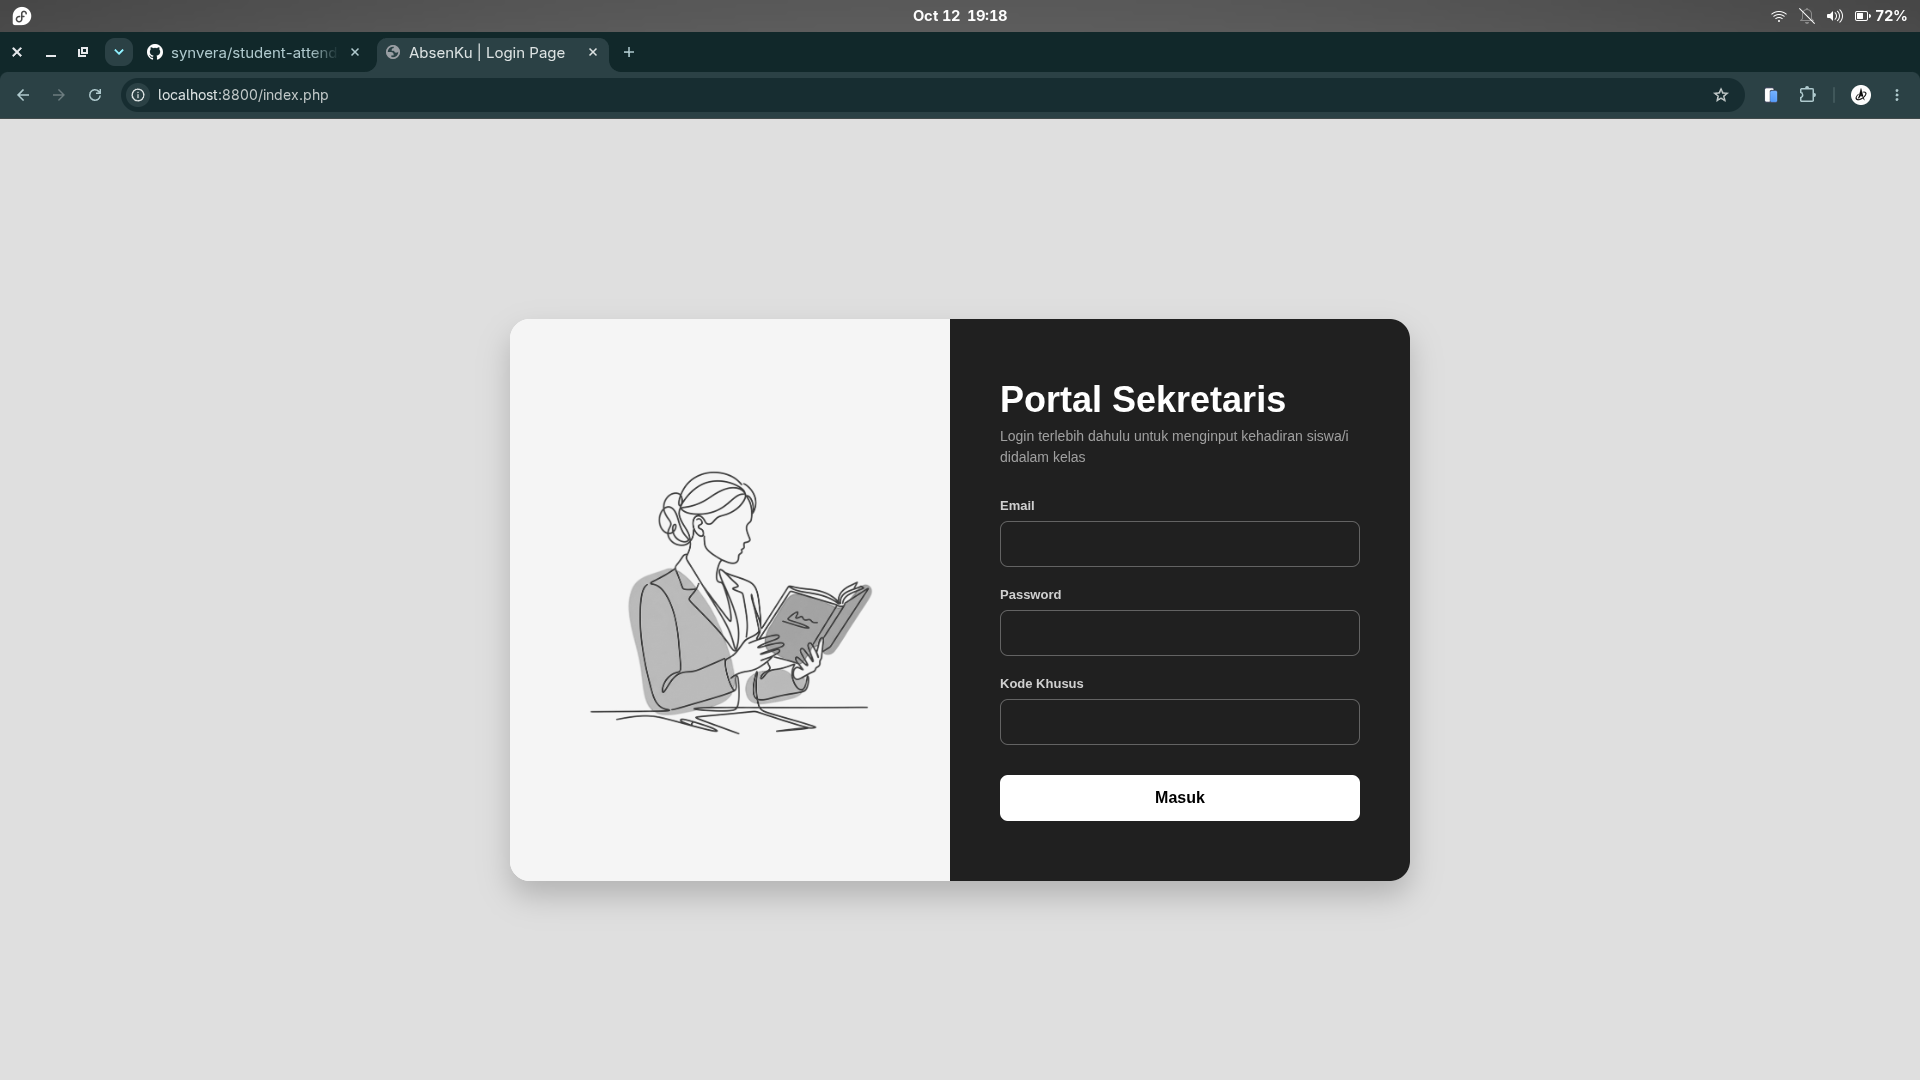
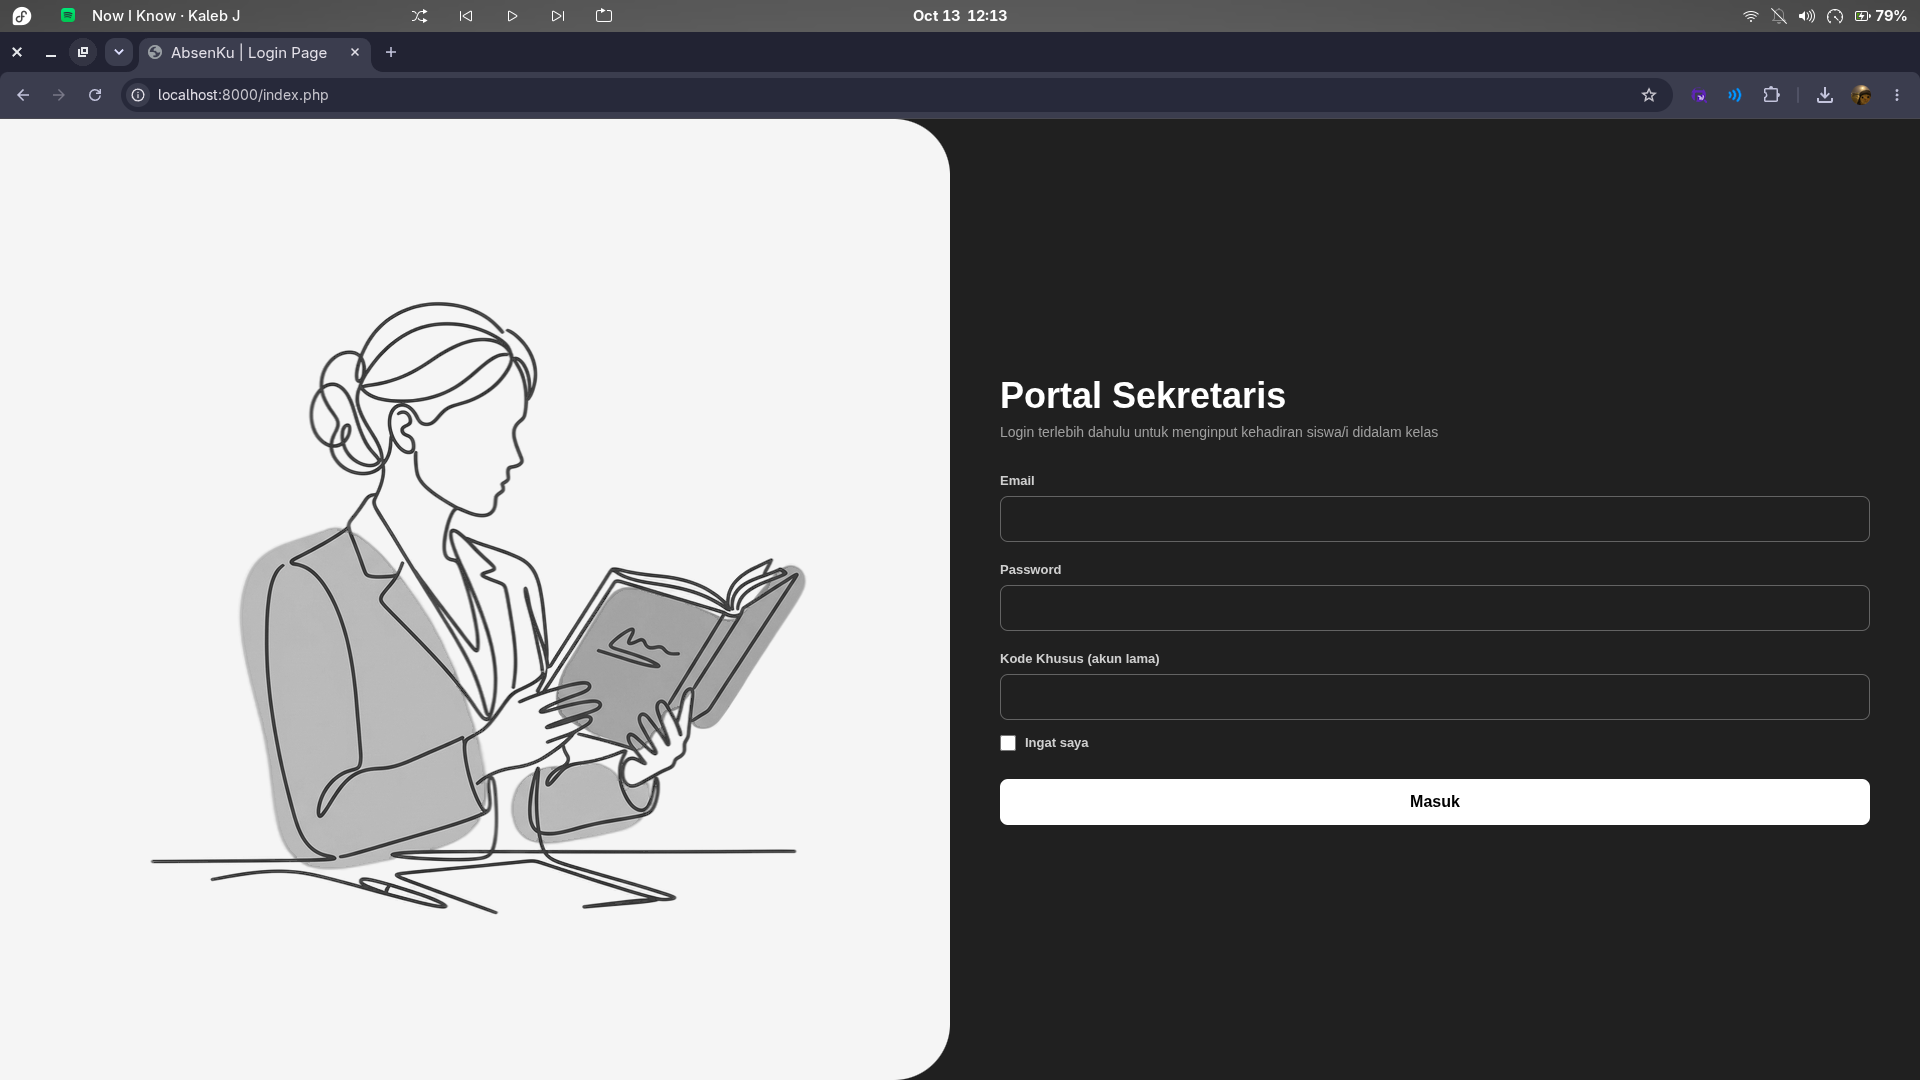
UPDATE

diff --git a/assets/css/index.css b/assets/css/index.css
@@ -10,20 +10,23 @@
 body {
     display: flex;
     justify-content: center;
-    align-items: center;
+    align-items: stretch;
     min-height: 100vh;
-    background-color: #e0e0e0; /* Abu-abu terang */
+    min-height: 100svh;
+    background-color: #ffffff;
 }
 
 /* Container utama untuk membagi 2 kolom */
 .login-page {
     display: flex;
-    width: 900px;
-    max-width: 90%;
-    background-color: #ffffff;
-    border-radius: 20px;
+    width: 100%;
+    max-width: none;
+    min-height: 100vh;
+    min-height: 100svh;
+    background-color: #1a1a1a;
+    border-radius: 0;
     overflow: hidden;
-    box-shadow: 0 15px 30px rgba(0, 0, 0, 0.2);
+    box-shadow: none;
 }
 
 /* Kolom Kiri (Bagian Gambar) */
@@ -34,6 +37,7 @@ body {
     align-items: center;
     background-color: #f5f5f5; /* Putih sedikit abu-abu */
     padding: 40px;
+    border-radius: 0 56px 56px 0;
 }
 
 .login-img img {
@@ -80,6 +84,28 @@ label {
     color: #d0d0d0;
     margin-bottom: 8px;
     display: block;
+}
+
+.remember-row {
+    display: flex;
+    align-items: center;
+    gap: 9px;
+    margin: -5px 0 18px;
+    cursor: pointer;
+}
+
+.remember-row input[type="checkbox"] {
+    width: 16px;
+    height: 16px;
+    flex: 0 0 auto;
+    margin: 0;
+    accent-color: #ffffff;
+}
+
+.remember-row span {
+    color: #d0d0d0;
+    font-size: 13px;
+    font-weight: 600;
 }
 
 /* Styling untuk Input Box */
@@ -138,24 +164,81 @@ button[type="submit"]:active {
 
 /* Responsivitas: Ubah tata letak jika dibuka di layar kecil (HP) */
 @media (max-width: 768px) {
+    body {
+        align-items: stretch;
+        min-height: 100vh;
+        min-height: 100svh;
+        background-color: #ffffff;
+    }
+
     .login-page {
         flex-direction: column;
         width: 100%;
+        max-width: none;
         border-radius: 0;
         min-height: 100vh;
+        min-height: 100svh;
+        box-shadow: none;
     }
     
     .login-img {
-        padding: 20px;
-        background-color: #ffffff;
-    }
-    
-    .login-img img {
-        max-width: 200px;
+        display: none;
     }
     
     form {
-        padding: 40px 30px;
-        flex: 2;
+        flex: 1;
+        padding: 24px 24px calc(24px + env(safe-area-inset-bottom));
+    }
+
+    form h2 {
+        font-size: 29px;
+    }
+
+    form p {
+        margin-bottom: 20px;
+    }
+
+    input[type="email"],
+    input[type="password"] {
+        padding: 11px 13px;
+        margin-bottom: 14px;
+    }
+
+    .remember-row {
+        margin-bottom: 14px;
+    }
+
+    button[type="submit"] {
+        padding: 12px;
+        margin-top: 6px;
+    }
+}
+
+@media (max-width: 768px) and (max-height: 620px) {
+    form {
+        padding: 18px 22px calc(18px + env(safe-area-inset-bottom));
+    }
+
+    form h2 {
+        font-size: 26px;
+    }
+
+    form p {
+        margin-bottom: 14px;
+    }
+
+    input[type="email"],
+    input[type="password"] {
+        padding: 10px 12px;
+        margin-bottom: 10px;
+    }
+
+    .remember-row {
+        margin-bottom: 10px;
+    }
+
+    button[type="submit"] {
+        padding: 11px;
+        margin-top: 4px;
     }
 }

diff --git a/config/app_settings.php b/config/app_settings.php
@@ -29,6 +29,16 @@ function app_settings_initialize($koneksi)
         created_at TIMESTAMP NOT NULL DEFAULT CURRENT_TIMESTAMP
     ) ENGINE=InnoDB DEFAULT CHARSET=utf8mb4");
 
+    mysqli_query($koneksi, "CREATE TABLE IF NOT EXISTS app_remember_tokens (
+        selector CHAR(32) NOT NULL PRIMARY KEY,
+        user_id INT UNSIGNED NOT NULL,
+        validator_hash CHAR(64) NOT NULL,
+        expires_at DATETIME NOT NULL,
+        created_at TIMESTAMP NOT NULL DEFAULT CURRENT_TIMESTAMP,
+        INDEX (user_id),
+        CONSTRAINT fk_remember_tokens_user FOREIGN KEY (user_id) REFERENCES app_users(id) ON DELETE CASCADE
+    ) ENGINE=InnoDB DEFAULT CHARSET=utf8mb4");
+
     $homeroom_nip_column = mysqli_query($koneksi, "SHOW COLUMNS FROM app_settings LIKE 'homeroom_nip'");
     if ($homeroom_nip_column && mysqli_num_rows($homeroom_nip_column) === 0) {
         mysqli_query($koneksi, "ALTER TABLE app_settings ADD homeroom_nip VARCHAR(40) NOT NULL DEFAULT '' AFTER homeroom_teacher");
@@ -92,6 +102,100 @@ function app_settings_initialize($koneksi)
         }
         mysqli_free_result($legacy_accounts);
     }
+}
+
+function app_remember_cookie_options($expires)
+{
+    return [
+        'expires' => $expires,
+        'path' => '/',
+        'secure' => isset($_SERVER['HTTPS']) && $_SERVER['HTTPS'] !== 'off',
+        'httponly' => true,
+        'samesite' => 'Lax',
+    ];
+}
+
+function app_clear_remember_cookie()
+{
+    setcookie('absenku_remember', '', app_remember_cookie_options(time() - 3600));
+    unset($_COOKIE['absenku_remember']);
+}
+
+function app_delete_remember_token($koneksi, $selector)
+{
+    $delete = mysqli_prepare($koneksi, 'DELETE FROM app_remember_tokens WHERE selector = ?');
+    if (!$delete) return false;
+    mysqli_stmt_bind_param($delete, 's', $selector);
+    $deleted = mysqli_stmt_execute($delete);
+    mysqli_stmt_close($delete);
+    return $deleted;
+}
+
+function app_remember_user($koneksi, $user_id)
+{
+    $selector = bin2hex(random_bytes(16));
+    $validator = bin2hex(random_bytes(32));
+    $expires = time() + 30 * 24 * 60 * 60;
+    $expires_at = date('Y-m-d H:i:s', $expires);
+    $insert = mysqli_prepare($koneksi, 'INSERT INTO app_remember_tokens (selector, user_id, validator_hash, expires_at) VALUES (?, ?, ?, ?)');
+    if (!$insert) return false;
+    $validator_hash = hash('sha256', $validator);
+    mysqli_stmt_bind_param($insert, 'siss', $selector, $user_id, $validator_hash, $expires_at);
+    $saved = mysqli_stmt_execute($insert);
+    mysqli_stmt_close($insert);
+    if (!$saved) return false;
+    setcookie('absenku_remember', $selector . ':' . $validator, app_remember_cookie_options($expires));
+    return true;
+}
+
+function app_revoke_remember_token($koneksi)
+{
+    $cookie = $_COOKIE['absenku_remember'] ?? '';
+    if (preg_match('/^([a-f0-9]{32}):[a-f0-9]{64}$/D', $cookie, $matches)) {
+        app_delete_remember_token($koneksi, $matches[1]);
+    }
+    app_clear_remember_cookie();
+}
+
+function app_restore_remembered_session($koneksi)
+{
+    $cookie = $_COOKIE['absenku_remember'] ?? '';
+    if ($cookie === '') return false;
+    if (!preg_match('/^([a-f0-9]{32}):([a-f0-9]{64})$/D', $cookie, $matches)) {
+        app_clear_remember_cookie();
+        return false;
+    }
+
+    $selector = $matches[1];
+    $validator = $matches[2];
+    $lookup = mysqli_prepare($koneksi, 'SELECT t.validator_hash, t.expires_at, u.id, u.email, u.display_name, u.role FROM app_remember_tokens t JOIN app_users u ON u.id = t.user_id WHERE t.selector = ? AND u.is_active = 1 LIMIT 1');
+    if (!$lookup) {
+        app_clear_remember_cookie();
+        return false;
+    }
+    mysqli_stmt_bind_param($lookup, 's', $selector);
+    mysqli_stmt_execute($lookup);
+    $user = mysqli_fetch_assoc(mysqli_stmt_get_result($lookup));
+    mysqli_stmt_close($lookup);
+
+    if (!$user || strtotime($user['expires_at']) <= time() || !hash_equals($user['validator_hash'], hash('sha256', $validator))) {
+        app_delete_remember_token($koneksi, $selector);
+        app_clear_remember_cookie();
+        return false;
+    }
+
+    if (!app_remember_user($koneksi, (int) $user['id'])) {
+        app_delete_remember_token($koneksi, $selector);
+        app_clear_remember_cookie();
+        return false;
+    }
+    app_delete_remember_token($koneksi, $selector);
+
+    session_regenerate_id(true);
+    $_SESSION['email_sekretaris'] = $user['email'];
+    $_SESSION['display_name'] = $user['display_name'];
+    $_SESSION['role'] = $user['role'];
+    return true;
 }
 
 function app_settings_get($koneksi)

diff --git a/index.php b/index.php
@@ -4,8 +4,7 @@ include 'config/koneksi.php'; //untuk mengambil data koneksi dari file koneksi.p
 require_once 'config/app_settings.php';
 app_settings_initialize($koneksi);
 
-//disini kita buat dulu untuk logika "jika sudah pernah login, maka langsung pergi ke dashboard"
-if (isset($_SESSION['email_sekretaris'])) {
+if (isset($_SESSION['email_sekretaris']) || app_restore_remembered_session($koneksi)) {
     header("Location: dashboard.php");
     exit();
 }
@@ -20,7 +19,7 @@ if ($_SERVER["REQUEST_METHOD"] == "POST") {
     $email_input = mysqli_real_escape_string($koneksi, $_POST['email']);
     $pw_input = $_POST['password'];
     $kodek_input = $_POST['kode'] ?? '';
-    $login = mysqli_prepare($koneksi, 'SELECT email, display_name, password_hash, role, legacy_code FROM app_users WHERE email = ? AND is_active = 1 LIMIT 1');
+    $login = mysqli_prepare($koneksi, 'SELECT id, email, display_name, password_hash, role, legacy_code FROM app_users WHERE email = ? AND is_active = 1 LIMIT 1');
     mysqli_stmt_bind_param($login, 's', $email_input);
     mysqli_stmt_execute($login);
     $akun = mysqli_fetch_assoc(mysqli_stmt_get_result($login));
@@ -33,6 +32,11 @@ if ($_SERVER["REQUEST_METHOD"] == "POST") {
         $_SESSION['email_sekretaris'] = $akun['email'];
         $_SESSION['display_name'] = $akun['display_name'];
         $_SESSION['role'] = $akun['role'];
+        if (isset($_POST['remember_me']) && $_POST['remember_me'] === '1') {
+            app_remember_user($koneksi, (int) $akun['id']);
+        } else {
+            app_revoke_remember_token($koneksi);
+        }
         header("Location: dashboard.php");
         exit();
     } else {
@@ -66,6 +70,7 @@ if ($_SERVER["REQUEST_METHOD"] == "POST") {
         <input type="password" name="password" required> <br> <br>
         <label for="kode">Kode Khusus (akun lama)</label> <br>
         <input type="password" name="kode"> <br> <br>
+        <label class="remember-row"><input type="checkbox" name="remember_me" value="1"><span>Ingat saya</span></label>
 
         <?php if($error != '') { echo "<p>$error</p><br>";} ?>
         <button type="submit">Masuk</button>

diff --git a/proses/logout.php b/proses/logout.php
@@ -1,11 +1,10 @@
 <?php
-//memulai session untuk mengenali sesi yang sedang berjalan
 session_start();
-//mengkosongkan data session saja yang tersimpan
+require_once __DIR__ . '/../config/koneksi.php';
+require_once __DIR__ . '/../config/app_settings.php';
+app_revoke_remember_token($koneksi);
 session_unset();
-//menghapus/menghancurkan session secara keseluruhan
 session_destroy();
-//setelah selesai, maka diarah kan ke login page 
 header("Location: ../index.php");
 exit();
 ?>
